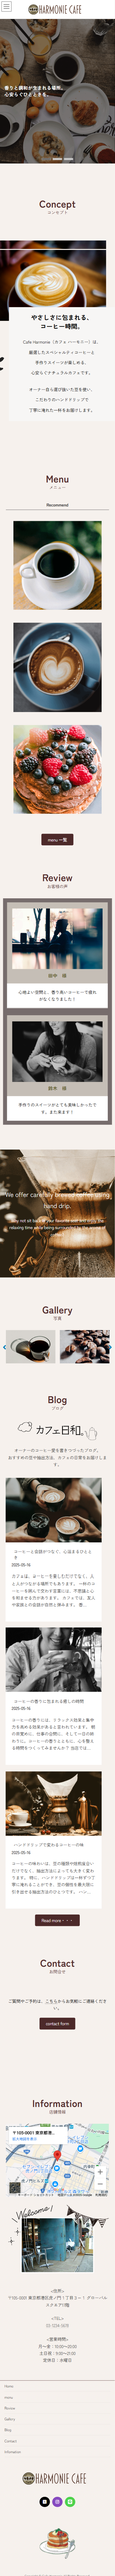
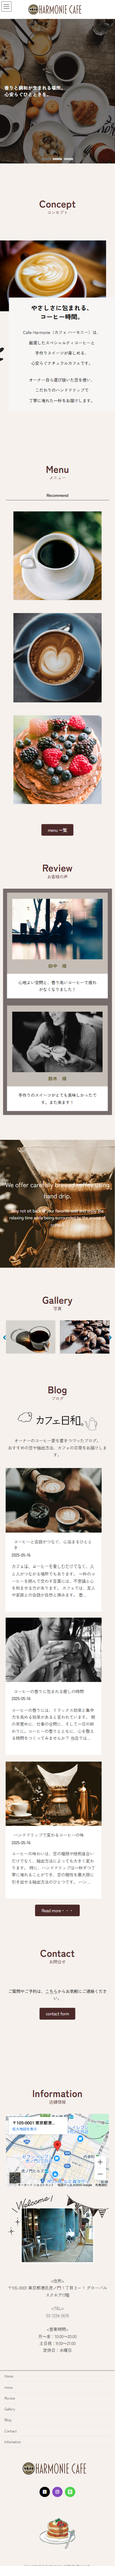
修正

diff --git a/works-cafe.html b/works-cafe.html
@@ -92,8 +92,8 @@
       <!-- 右側（追加したい画像） -->
       <div class="article-side">
         <p>
-          <img src=img/works-detail/workcafe/cafe_top_sp.png" alt="top">
-        </p>img/works-detail/workcafe/cafe_blogpage_sp.png
+          <img src="img/works-detail/workcafe/cafe_top_sp.png" alt="top">
+        </p>
         <p>
           <img src="iimg/works-detail/workcafe/cafe_menu_sp.png" alt="category">
         </p>

diff --git a/css/style.css b/css/style.css
@@ -781,7 +781,7 @@ input[type="text"] {
 }
 
 .article-body {
-  max-width: 720px;
+  width: 900px;
   margin: 0 auto;
   margin-bottom: 80px;
 }
@@ -794,7 +794,7 @@ input[type="text"] {
 }
 
 .article-body img {
-  width: 100%;
+  width: 150%;
   height: auto;
 }
 
@@ -832,7 +832,7 @@ input[type="text"] {
 }
 
 .article-side img {
-  max-width: 100%;
+  max-width: 60%;
   height: auto;
 }
 /*media Queries 767
